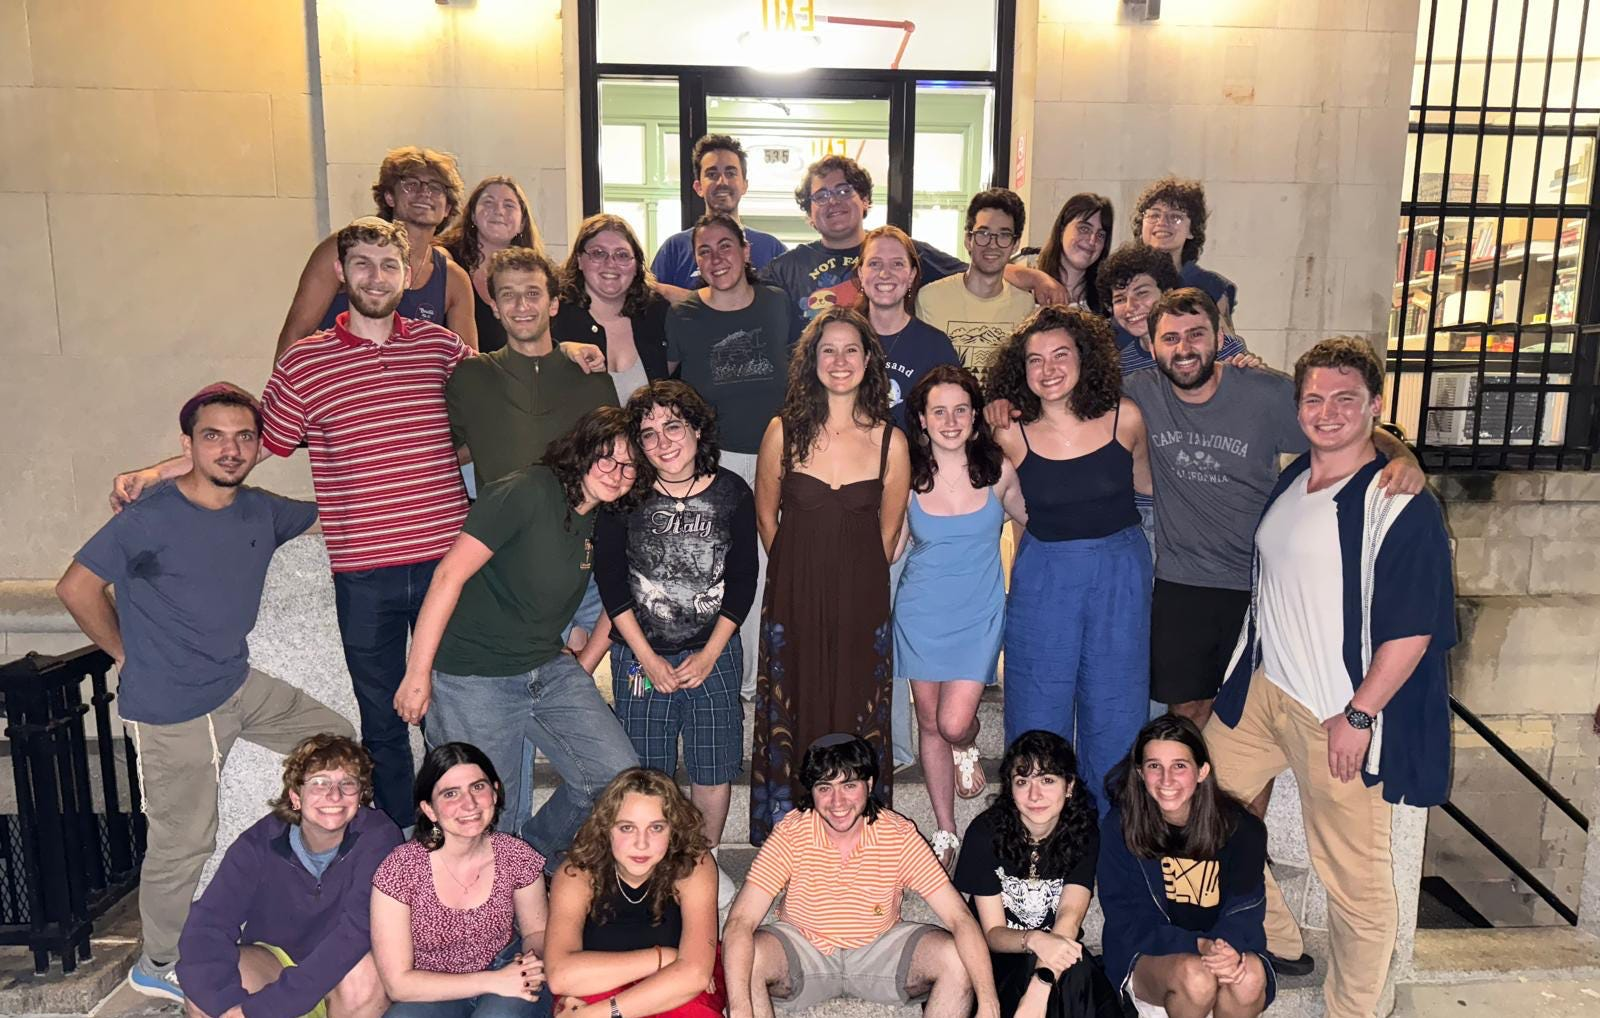
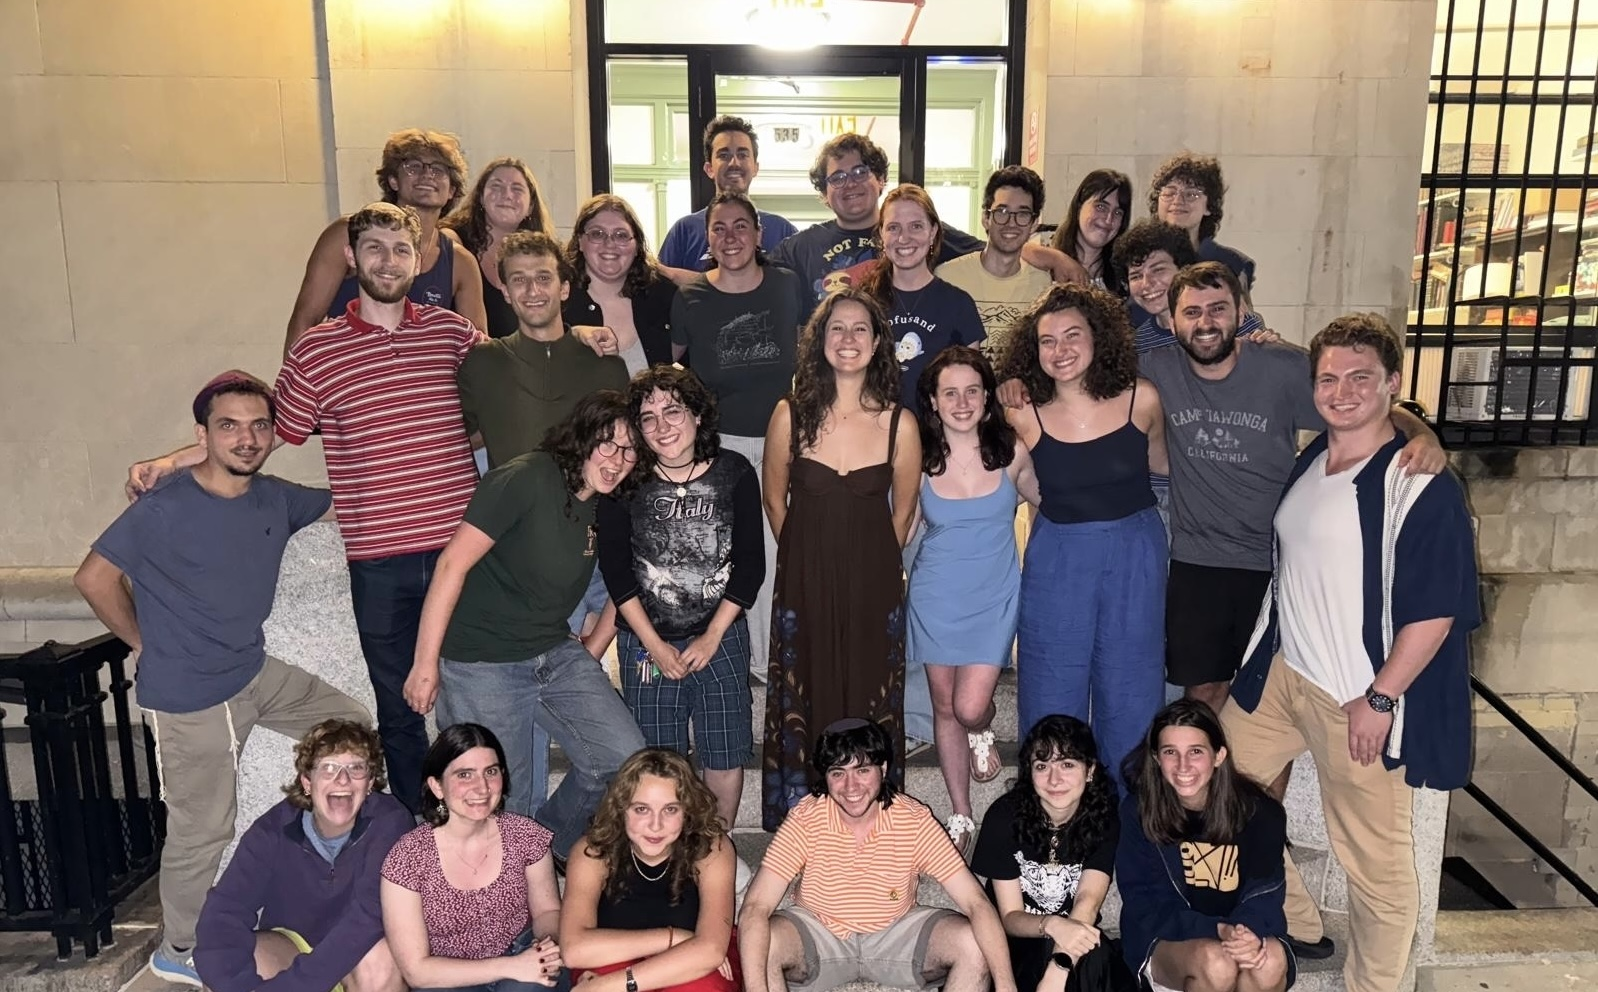
fixed group picture in hero; fixed spotify description; fixed contact addresses

diff --git a/src/components/About.jsx b/src/components/About.jsx
@@ -11,8 +11,7 @@ function About() {
             <div className="card-icon">🍽</div>
             <h3>Cooperative Cooking</h3>
             <p>
-              Share meals, recipes, and cooking responsibilities with fellow residents.
-              Our community kitchen is the heart of Beit Ephraim.
+              *Spiel about cooking/food at Bayit*
             </p>
           </div>
 
@@ -28,8 +27,7 @@ function About() {
             <div className="card-icon">🤝</div>
             <h3>Community Values</h3>
             <p>
-              Built on principles of cooperation, inclusivity, and mutual support.
-              Everyone contributes to our shared living experience.
+              *Spiel about how we've been around for a long time, value community living*
             </p>
           </div>
         </div>

diff --git a/src/components/Spotify.jsx b/src/components/Spotify.jsx
@@ -25,8 +25,7 @@ function Spotify() {
 
                     <div className="playlist-info">
                         <p>
-                            This playlist is curated by current Bayitniks and updated regularly.
-                            From study vibes to cooking beats, it's the soundtrack to our community life!
+                            This playlist is curated by current Bayitniks to reflect some tunes we're listening to!
                         </p>
                     </div>
                 </div>

diff --git a/src/components/Archive.jsx b/src/components/Archive.jsx
@@ -154,7 +154,7 @@ function Archive() {
         <div className="archive-note">
           <p>
             Have historical photos to share?
-            <a href="mailto:beitephraim@columbia.edu"> Send them our way!</a>
+            <a href="mailto:bayitrecruiter@gmail.com"> Send them our way!</a>
           </p>
         </div>
       </div>
